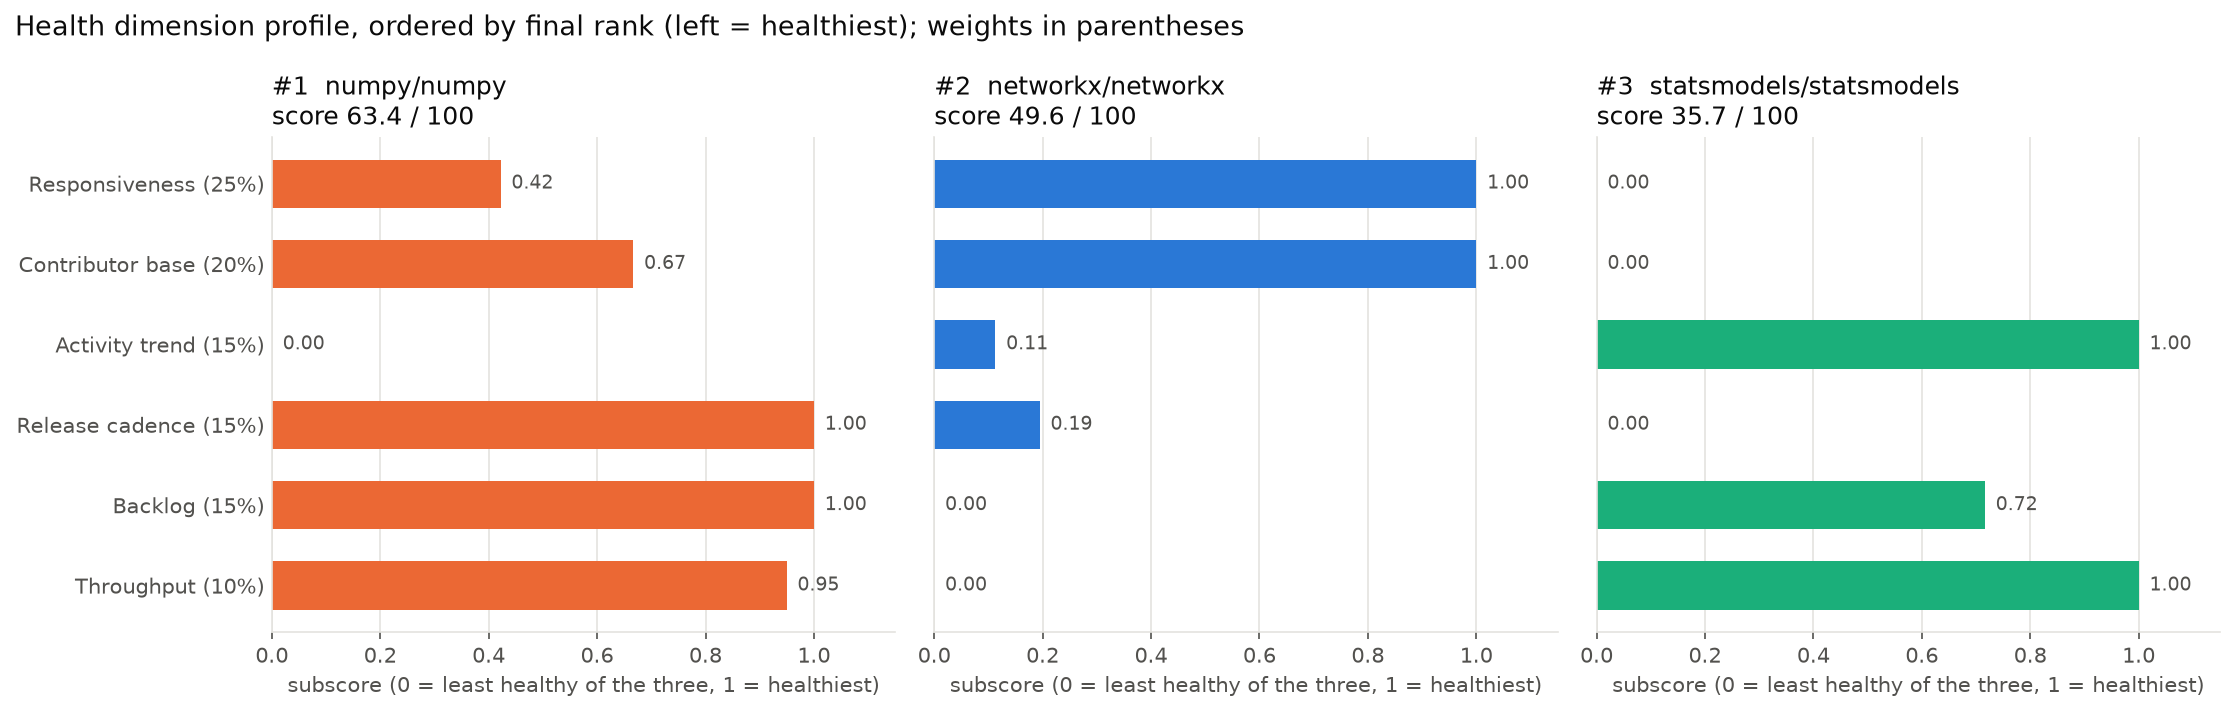
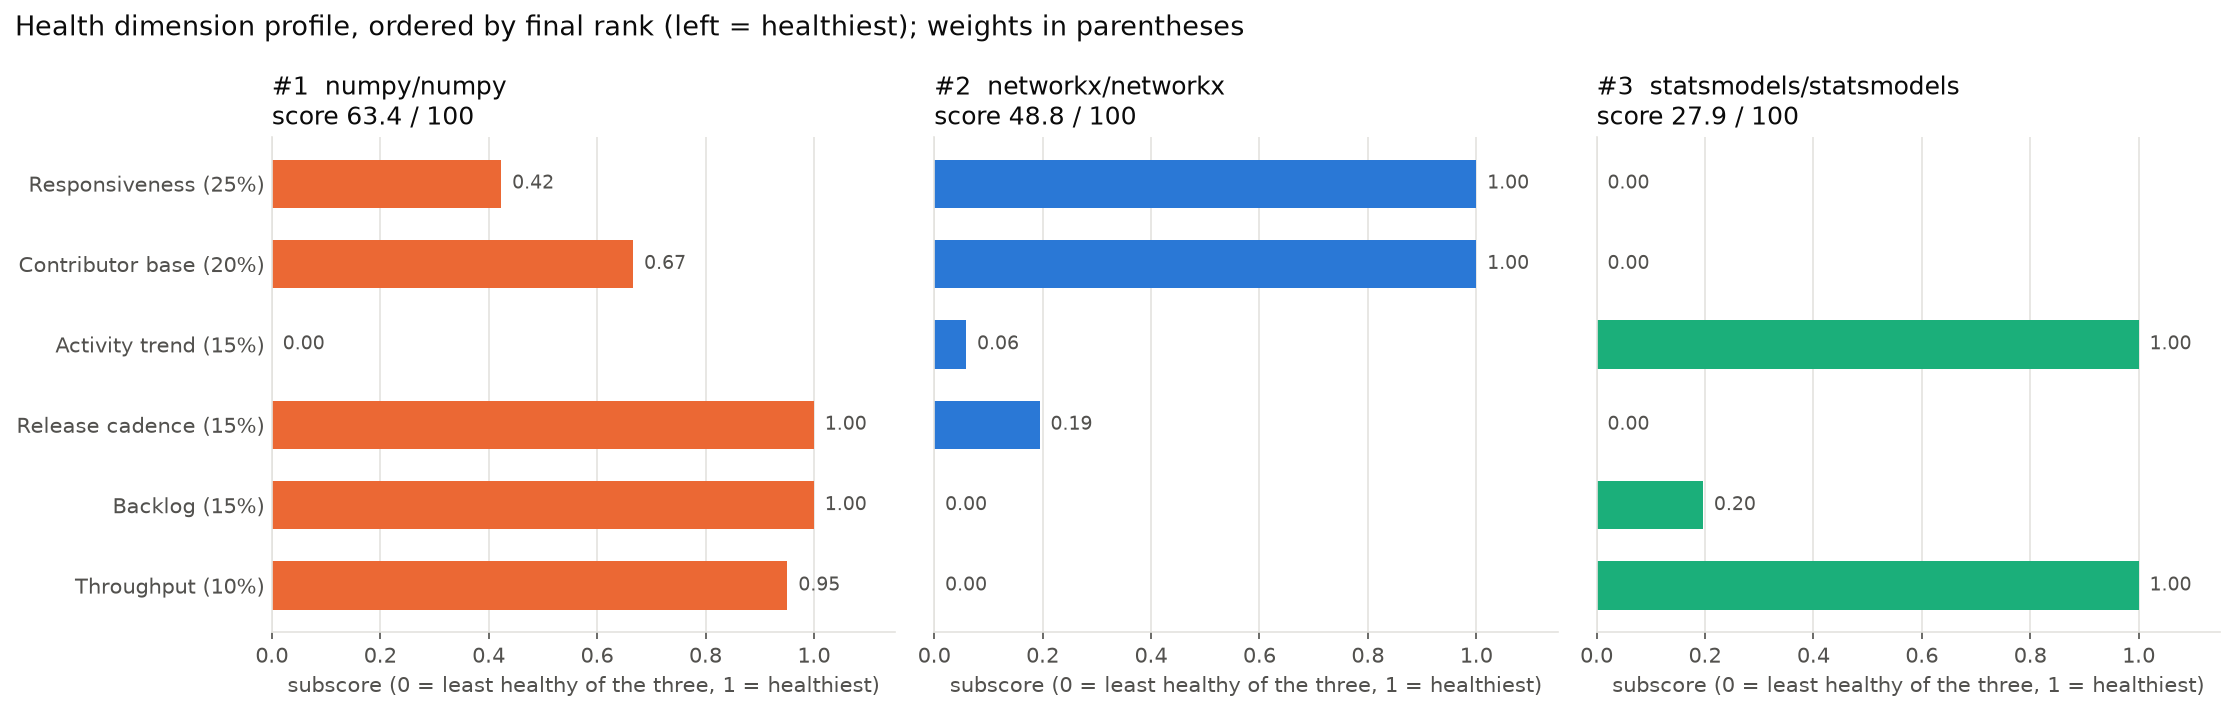
Refresh README for the final run and document GraphQL, concurrency, and the deployment

diff --git a/README.md b/README.md
@@ -37,12 +37,15 @@ export GH_PAT=<your token>
 
 The flow can be run by executing the command `python main.py` or `time python main.py` to include the time metrics for
 running the flow itself on top of the outputs the pipeline already provides. This runs one Prefect flow with all 6
-tasks in order (extract, load, dbt build, validate, model, and plot), and if any task fails, the flow stops. The
-expected runtime for the first full run is a little over an hour (about 65 minutes or so, but it can slightly vary
-depending on when the flow is run during the cycle of rate-limit resets of the hour and such). Almost all of that is
-task 1, since it makes about 7,950 API requests, which is more than the 5,000 per hour limit, so it sleeps for about 20
-minutes partway through depending on when you start the flow. The other five tasks take under a minute combined. Later runs are incremental and only take
-about 30-60 seconds since they only fetch what changed since the last run. If a run gets interrupted, running it again
+tasks in order (extract, load, dbt build, validate, model, and plot), and if any task fails, the flow stops. By
+default, pull requests and reviews are fetched with GraphQL (see Extended items), so the expected runtime for the first
+full run is about 3.5 minutes (214 API requests, about 2.5 minutes of that in task 1). With the original REST version
+(`package_health_flow(pr_source="rest")`), the first full run is a little over an hour (about 65 minutes or so, but it
+can slightly vary depending on when the flow is run during the cycle of rate-limit resets of the hour and such). Almost
+all of that is task 1, since it makes about 7,950 API requests, which is more than the 5,000 per hour limit, so it
+sleeps for about 20 minutes partway through depending on when you start the flow. The other five tasks take under a
+minute combined. Later runs are incremental and only take about 30-60 seconds since they only fetch what changed since
+the last run. If a run gets interrupted, running it again
 just resumes and skips the pages already saved. Task 1 writes to the `data/raw` folder and later tasks will write to
 `packages.duckdb` and the `plots/` folder, and all tasks log to the `logs/` folder. Logs and runs also show up in the
 Prefect UI if `PREFECT_API_URL` points to an actual Prefect server.
@@ -67,6 +70,11 @@ with a base backoff of 10 seconds, doubling with each retry. Other errors, such 
 retrying wouldn't really help or do much for these. For resumability, pages that are already saved on the disk
 are skipped, so the saved `next_url` will provide a checkpoint where to continue from in the case of interruptions and/or
 errors. Pages are written to a temp (.tmp) file before being renamed so a crash never leaves pages unfinished.
+
+Everything above describes the REST version, which still exists in the code and runs when called with `pr_source="rest"`,
+but by default, the flow now uses GraphQL to fetch pull requests and reviews rather than REST. Commits and releases still
+continue to use REST with the same pagination, rate limit, retry, and resume handling. The record counts and the
+interrupted/resumed run below are from the REST version.
 
 ### Record counts
 
@@ -249,7 +257,7 @@ the rows in the staging. The difference must be equal to the staging drops row c
 run of this. It also checks that each repo has at least one commit in every complete month (not the current month).
 
 For detecting outliers, the cutoff for time to merge is one year after opening. It's the same rule for each repo as it
-is a nice round number and also is a clear marker for atypical merge times since the median times were from 4.9 to 61
+is a nice round number and also is a clear marker for atypical merge times since the median times were from about 5 to 61
 hours, far less than an entire year. I considered a Tukey fence (Q3 + 3xIQR) for merge times too, but the times are so
 right-skewed that it flagged about 12% of numpy's pull requests, which is just the normal long tail, not real outliers.
 It flagged 16 pull requests: 4 in networkx, 6 in numpy, and 6 in statsmodels, ranging from just over a year (networkx #7347,
@@ -261,7 +269,7 @@ for each of these repositories is VERY different from one another (medians of 44
 initially tried 1.5xIQR, but this flagged 28 weeks which was most ordinary busy weeks for given repositories, but 3xIQR
 actually started marking real bursts of commits, so I stuck with that. This new rule flagged 12 weeks: 1 in networkx
 (29 commits the week of July 1, 2024, against a cutoff of 23), 1 in numpy (166 commits the week of October 13, 2025,
-against 152), and 10 in statsmodels, all between June and October 2026 (55 to 361 commits against a cutoff of 50). The
+against 152), and 10 in statsmodels, all between July and October 2026 (91 to 363 commits against a cutoff of 58). The
 statsmodels weeks come from a surge of activity in mid-2026, mostly from one maintainer, and that surge also explains
 its merge-time outliers: those old pull requests were finally merged during it. This surge is also what drives
 statsmodels' high commit trend in Task 5.
@@ -276,23 +284,23 @@ were already excluded), not data errors.
 ### Descriptive statistics
 
 The descriptive statistics use medians and 90th percentiles because the durations are heavily right-skewed (the 90th
-percentile is 15 to 150 times the median). numpy responds fastest (half of its reviewed pull requests get a first review
-within 7.5 hours), and statsmodels merges fastest (median 4.9 hours), but statsmodels' slowest 10% of reviewed pull
-requests wait about 20 days for a first review. networkx is the slowest to merge (median 61 hours; the slowest 10% take over 47 days).
+percentile is about 20 to 60 times the median). numpy responds fastest (half of its reviewed pull requests get a first review
+within 7.5 hours), and statsmodels merges fastest (median 5 hours), but statsmodels' slowest 10% of reviewed pull
+requests wait about 20 days for a first review. networkx is the slowest to merge (median 61 hours; the slowest 10% take about 47 days).
 
 | Repo | Median first review | p90 first review | Median merge | p90 merge | Commits/week | Releases/year |
 | --- | --- | --- | --- | --- | --- | --- |
-| networkx/networkx | 12.5 h | 257.5 h | 61.0 h | 1,128.7 h | 6.0 | 4.6 |
-| numpy/numpy | 7.5 h | 166.0 h | 7.7 h | 269.5 h | 49.6 | 14.9 |
-| statsmodels/statsmodels | 14.5 h | 490.0 h | 4.9 h | 307.5 h | 20.9 | 2.1 |
+| networkx/networkx | 12.6 h | 252.6 h | 60.9 h | 1,128.2 h | 5.9 | 4.6 |
+| numpy/numpy | 7.5 h | 170.1 h | 7.8 h | 276.8 h | 49.4 | 14.8 |
+| statsmodels/statsmodels | 14.5 h | 486.8 h | 5.0 h | 286.0 h | 22.2 | 2.1 |
 
 ### Evidence
 
 From `logs/validate.log` (latest run):
 
 ```
-numpy/numpy pulls: 5828 raw rows, 0 dropped on purpose, 5828 in stg_pull_requests
-Commits in every complete month: checked 33 months per repo, 0 empty
+numpy/numpy pulls: 5900 raw rows, 0 dropped on purpose, 5900 in stg_pull_requests
+Commits in every complete month: checked 34 months per repo, 0 empty
 All completeness checks passed
 Time-to-merge outliers (merged > 8760 h = 1 year after opening): 16 PRs, kept
 Weekly-commit outliers (above Q3 + 3 x IQR per repo): 12 weeks, kept
@@ -316,11 +324,11 @@ inputs mart.
 
 | Dimension | Metric | Definition | Healthier when | networkx | numpy | statsmodels |
 | --- | --- | --- | --- | --- | --- | --- |
-| Activity (trend) | `commit_trend_pct` | Monthly commit regression slope over complete months divided by the repo's average month (% change per month) | Higher | +0.08% | −1.12% | +9.50% |
+| Activity (trend) | `commit_trend_pct` | Monthly commit regression slope over complete months divided by the repo's average month (% change per month) | Higher | −0.31% | −1.01% | +10.85% |
 | Responsiveness | `pct_reviewed_within_7d` | Share of PRs (at least 7 days old) first reviewed by someone other than the author or a bot within a week. Never-reviewed PRs count as not reviewed | Higher | 72% | 38% | 13% |
-| Throughput | `median_hours_to_merge` | Median hours from a PR being opened to being merged (merged PRs only) | Lower | 61.0 h | 7.7 h | 4.9 h |
-| Backlog | `pct_open_stale` | Share of open PRs with no activity in 180 days or more | Lower | 59% | 34% | 41% |
-| Release cadence | `releases_per_year` | Releases in the window divided by the window's length in years | Higher | 4.6 | 14.9 | 2.1 |
+| Throughput | `median_hours_to_merge` | Median hours from a PR being opened to being merged (merged PRs only) | Lower | 60.9 h | 7.8 h | 5.0 h |
+| Backlog | `pct_open_stale` | Share of open PRs with no activity in 180 days or more | Lower | 59% | 31% | 53% |
+| Release cadence | `releases_per_year` | Releases in the window divided by the window's length in years | Higher | 4.6 | 14.8 | 2.1 |
 | Contributor base | `bus_factor` | Fewest PR authors who collectively account for at least half of merged PRs | Higher | 4 | 3 | 1 |
 
 For normalization, I decided to just not use `commits_per_week` as a metric because it's a raw volume thing, so numpy
@@ -353,9 +361,10 @@ present, divided by the repo's average month so it's a % change and normalized t
 2026 for statsmodels, but I didn't alter it or get rid of it as this is a real mark of human work and shouldn't be
 discarded or altered just because it's strange or doesn't fit a perfect pattern.
 
-When messing with the weights, 2nd and 3rd place can swap around. For example, using equal weights for each metric
-makes it so statsmodels is 2nd and networkx is 3rd, but the weights I use have them flipped due to the emphasis more on
-responsiveness and bus factor. Regardless, numpy takes 1st place in pretty much every configuration (although I'm sure
+When messing with the weights, 2nd and 3rd place get very close. For example, using equal weights for each metric
+gives networkx 37.6 and statsmodels 36.6, only a point apart, while the weights I used put networkx well ahead (48.8 vs 27.9)
+due to the emphasis more on responsiveness and bus factor. (On an earlier run, equal weights actually swapped them, so
+2nd and 3rd depend on weights and on small changes in the data.) Regardless, numpy takes 1st place in pretty much every configuration (although I'm sure
 there's some configuration you could use to swap that, but the rational ones all seem to put numpy in 1st).
 
 ### Ranking
@@ -366,8 +375,8 @@ healthiest of the three, before weighting), score is 0-100.
 | Rank | Repo | Score | Responsiveness (25%) | Contributor base (20%) | Activity trend (15%) | Release cadence (15%) | Backlog (15%) | Throughput (10%) |
 | --- | --- | --- | --- | --- | --- | --- | --- | --- |
 | 1 | numpy/numpy | 63.4 | 0.42 | 0.67 | 0.00 | 1.00 | 1.00 | 0.95 |
-| 2 | networkx/networkx | 49.6 | 1.00 | 1.00 | 0.11 | 0.19 | 0.00 | 0.00 |
-| 3 | statsmodels/statsmodels | 35.7 | 0.00 | 0.00 | 1.00 | 0.00 | 0.72 | 1.00 |
+| 2 | networkx/networkx | 48.8 | 1.00 | 1.00 | 0.06 | 0.19 | 0.00 | 0.00 |
+| 3 | statsmodels/statsmodels | 27.9 | 0.00 | 0.00 | 1.00 | 0.00 | 0.20 | 1.00 |
 
 ## Task 6: Plots
 
@@ -399,8 +408,8 @@ window to present (Jan 2024 to current), shows the current partial month, and ex
 quickly see statsmodels surge in 2026 very sharply, especially visible in the commits and PRs opened graphs. Numpy
 grows steadily across the board on active contributors and PRs opened and shows pretty stable consistency on the
 other charts. Networkx is also pretty stable across the board with the exception of merge ratio as it declines
-steadily over the past couple years, starting around 0.9 and going down to about 0.4-0.6 in 2026 (the current
-partial month dips to about 0.25, but that month isn't complete yet). This again shows the potential trend that
+steadily over the past couple years, starting around 0.9 and going down to about 0.5-0.7 in most of 2026, with lows
+of about 0.37 in July and 0.29 in October (the current partial month, November, only has a few days so far). This again shows the potential trend that
 larger repos like numpy can grow while staying steady, while statsmodels' swings come from having only a few PRs per
 month.
 
@@ -413,7 +422,7 @@ all in one plot. Numpy's bubbles are a far more tight cluster while networkx and
 the bubbles for numpy are also larger as it is a larger repo, and statsmodels has the smallest subset of bubbles on
 average (fewest contributors active). Numpy's tight cluster shows a fast review combined with a high merge ratio
 (ranging from about 0.7 to 0.95). Networkx sits lower on the graph with a similar review speed to numpy, but lower
-merge ratios (even going down to about 0.35 at the lowest). Statsmodels is extremely spread out on both axes,
+merge ratios (even going down to about 0.3 at the lowest). Statsmodels is extremely spread out on both axes,
 ranging in merge ratio from about 0.4 to 1.0, and ranging in first review time from under an hour all the way up to
 about 10,000 hours. It has far fewer contributors and reviewed PRs per month, so each month's median relies on just a
 few PRs and is bound to be more inconsistent and very scattered given its size. Within each repo, a faster review
@@ -423,21 +432,64 @@ the graph as previously explained.
 ## Extended items
 
 
-I only attempted the odometer item, and I implemented it by counting each request sent to the GitHub API in a
-flow run and logging the total. This is done in `extract.py` using a counter that increases by 1 within `github_get()`, which
-is the one function that every single API call goes through, so it doesn't need to be anywhere else. `extract()` resets it
+I attempted all 4 extended items: GraphQL ingestion, concurrent fetching, scheduled deployment, and the API
+odometer.
+
+### GraphQL ingestion
+
+Pull requests and reviews are fetched with GitHub's GraphQL API by default now (`fetch_pulls_graphql()` within `extract.py`).
+One query returns 100 pull requests, newest updated first, showing up to 100 reviews for each one, replacing about 100 REST
+review calls. It pages with cursors, stops at the window start or watermark just like the REST version does, and tracks the
+5000 point hourly budget from the `rateLimit` field of each query (stopping before hitting 0). The rare pull request with
+over 100 reviews gets follow-up queries to handle it. Each result is converted into the same shape as the REST records and
+saved in the same folders, so task 2, the dbt models, and tests work the same. Commits and releases still use REST and the
+REST version for the pull requests and reviews still works with `pr_source="rest"` as previously mentioned.
+
+| Full first run (empty `data/` and database) | API requests | Task 1 runtime | Whole flow |
+| --- | --- | --- | --- |
+| REST (Oct 23) | about 7,950 | about 65 min (including a ~22 min rate-limit sleep) | about 65 min |
+| GraphQL + concurrency (Nov 3) | 214 (126 REST + 88 GraphQL, 88 points) | 164 s | 3 min 34 s |
+
+```
+Extract finished (graphql for PRs/reviews): 212 pages fetched in 164s
+API odometer: 214 requests this flow run (REST 126, GraphQL 88, GraphQL points 88; 212 pages saved)
+```
+
+### Concurrent fetching
+
+The 3 repos are fetched at the same time. `extract()` submits one `extract_repo` task per repo with Prefect's
+`.submit()`, so they run in parallel threads. A shared `RateLimiter` per API (REST and GraphQL) keeps the total usage
+under the quota. When any thread sees the budget running low or gets rate limited, it pauses and every thread
+waits for it to resume before its next request. The odometer also uses a lock so parallel threads can't miscount. In the
+logs, all 3 repos start within the same second.
+
+### Scheduled deployment
+
+`deploy.py` registers a Prefect deployment on the SDS server (`uvasds-k8s-pool`) that runs on the 28th each month. It
+clones this private repo with a Prefect "Secret" block, and the flow reads its GitHub token from said block on the server.
+`DEPLOYMENTS.md` has the deploy command and the full log of a run I triggered from the UI on Prefect (finished in ~3m). The
+server starts every run from an empty folder, so each scheduled run counts as a full first run.
+
+### API odometer
+
+I implemented it by counting each request sent to the GitHub API in a
+flow run and logging the total. This is done in `extract.py` using a counter that increases by 1 within `send()`, which
+is the one function that every single API call goes through (REST and GraphQL), so it doesn't need to be anywhere else. `extract()` resets it
 back to 0 at the beginning of each run and logs it at the end of said run. Task 1 is the only task that calls the API, so
 that number from task 1 is the entire flow's total. Every response like rate-limited, server errors, network issues, requests lost when Prefect retries a task,
 etc. are all still requests to the API but don't save a page, so counting in the place that each of these things go
 through is the easiest way to still keep track of them all, rather than adding up the saved pages afterward, which
-would miss them. It does have a limitation that since it's
-just a simple Python variable, if you were to attempt to fetch different repos at the same time, it would need a mechanism
-to lock it so they don't both update it at the same time and cause issues.
+would miss them. Since the repos are now fetched at the same time, the counter is updated under a lock so 2 different
+threads can't update it at the same time and cause any issues. It counts REST requests, GraphQL requests, and GraphQL
+points separately.
 
 ### Evidence
 
 The two numbers match when nothing fails or retries. Any difference would be the failed or retried requests.
 
 ```
-API odometer: 150 requests this flow run (150 pages saved)
+API odometer: 214 requests this flow run (REST 126, GraphQL 88, GraphQL points 88; 212 pages saved)
 ```
+
+The 214 requests vs 212 pages difference is 2 GraphQL follow-up queries for PRs with over 100 reviews, whose
+extra review pages are saved but not included in the pages count.

diff --git a/CHECKLIST.md b/CHECKLIST.md
@@ -62,7 +62,7 @@ Due: Nov 02, 2026. See the [instructions](INSTRUCTIONS.md) for full grading crit
 - [ ] **GraphQL:** PR and review ingestion uses GraphQL with cursor pagination; README logs request counts and runtime for REST vs. GraphQL
 - [ ] **Concurrent fetching:** repos are fetched in parallel under a shared rate limiter; README says where this happens in the code
 - [ ] **Scheduled deployment:** monthly Prefect deployment (the 28th); `DEPLOYMENTS.md` shows the deployment command and the log of one manually triggered run
-- [ ] **API odometer:** total requests per flow run is logged, and your count is: ___________
+- [ ] **API odometer:** total requests per flow run is logged, and your count is: 214 (fresh full run, Nov 3: REST 126 + GraphQL 88)
 
 ## After submission
 
